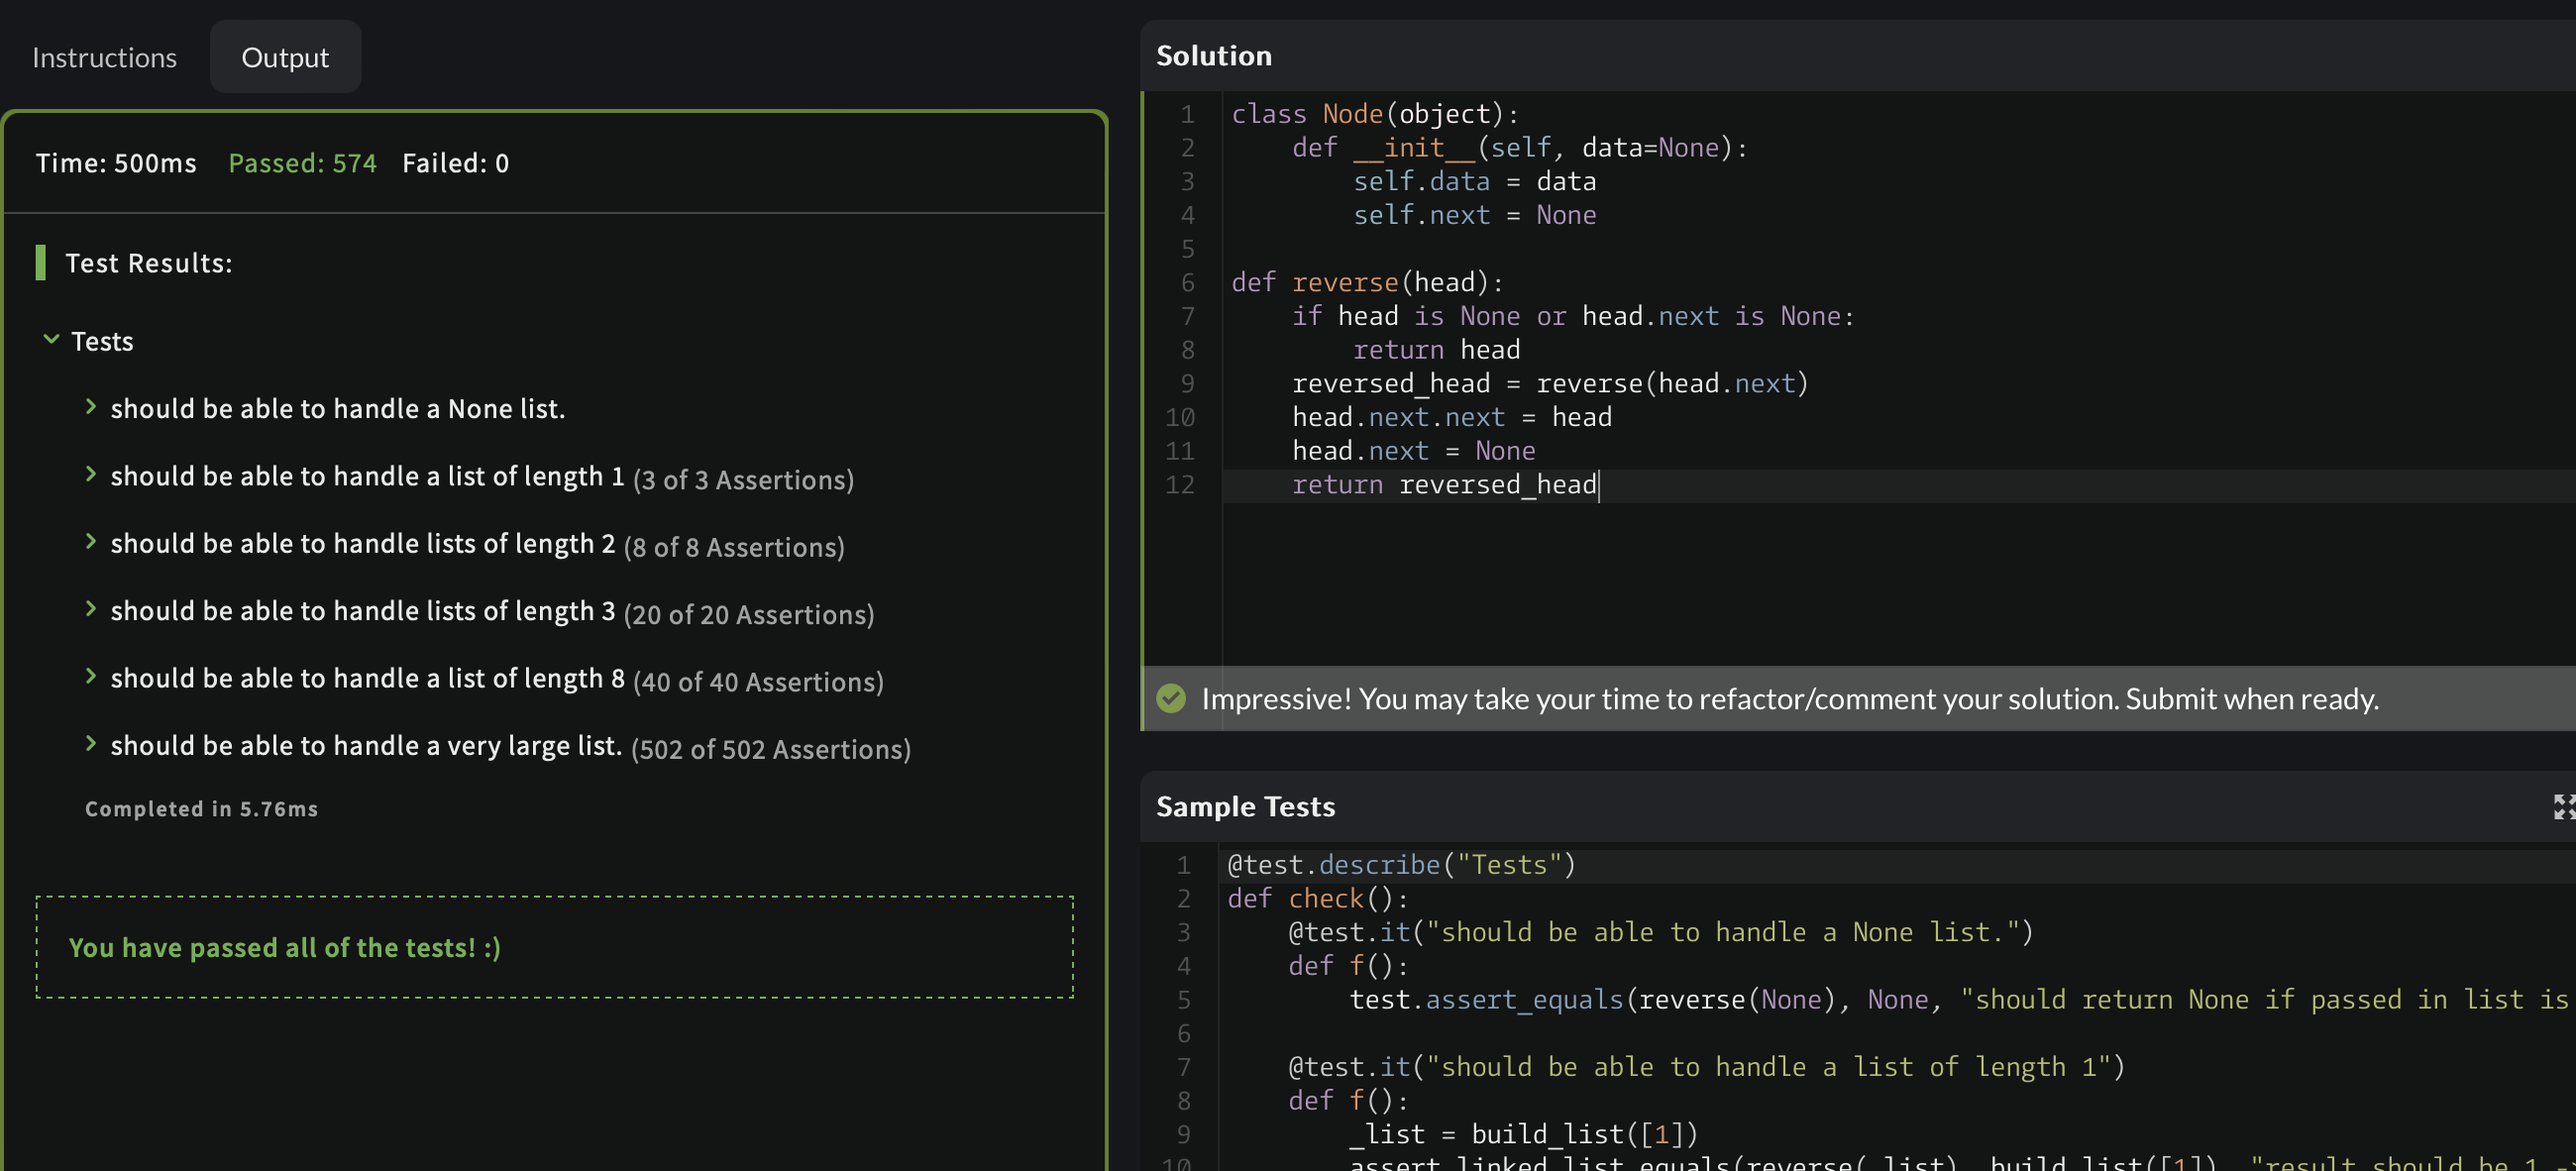
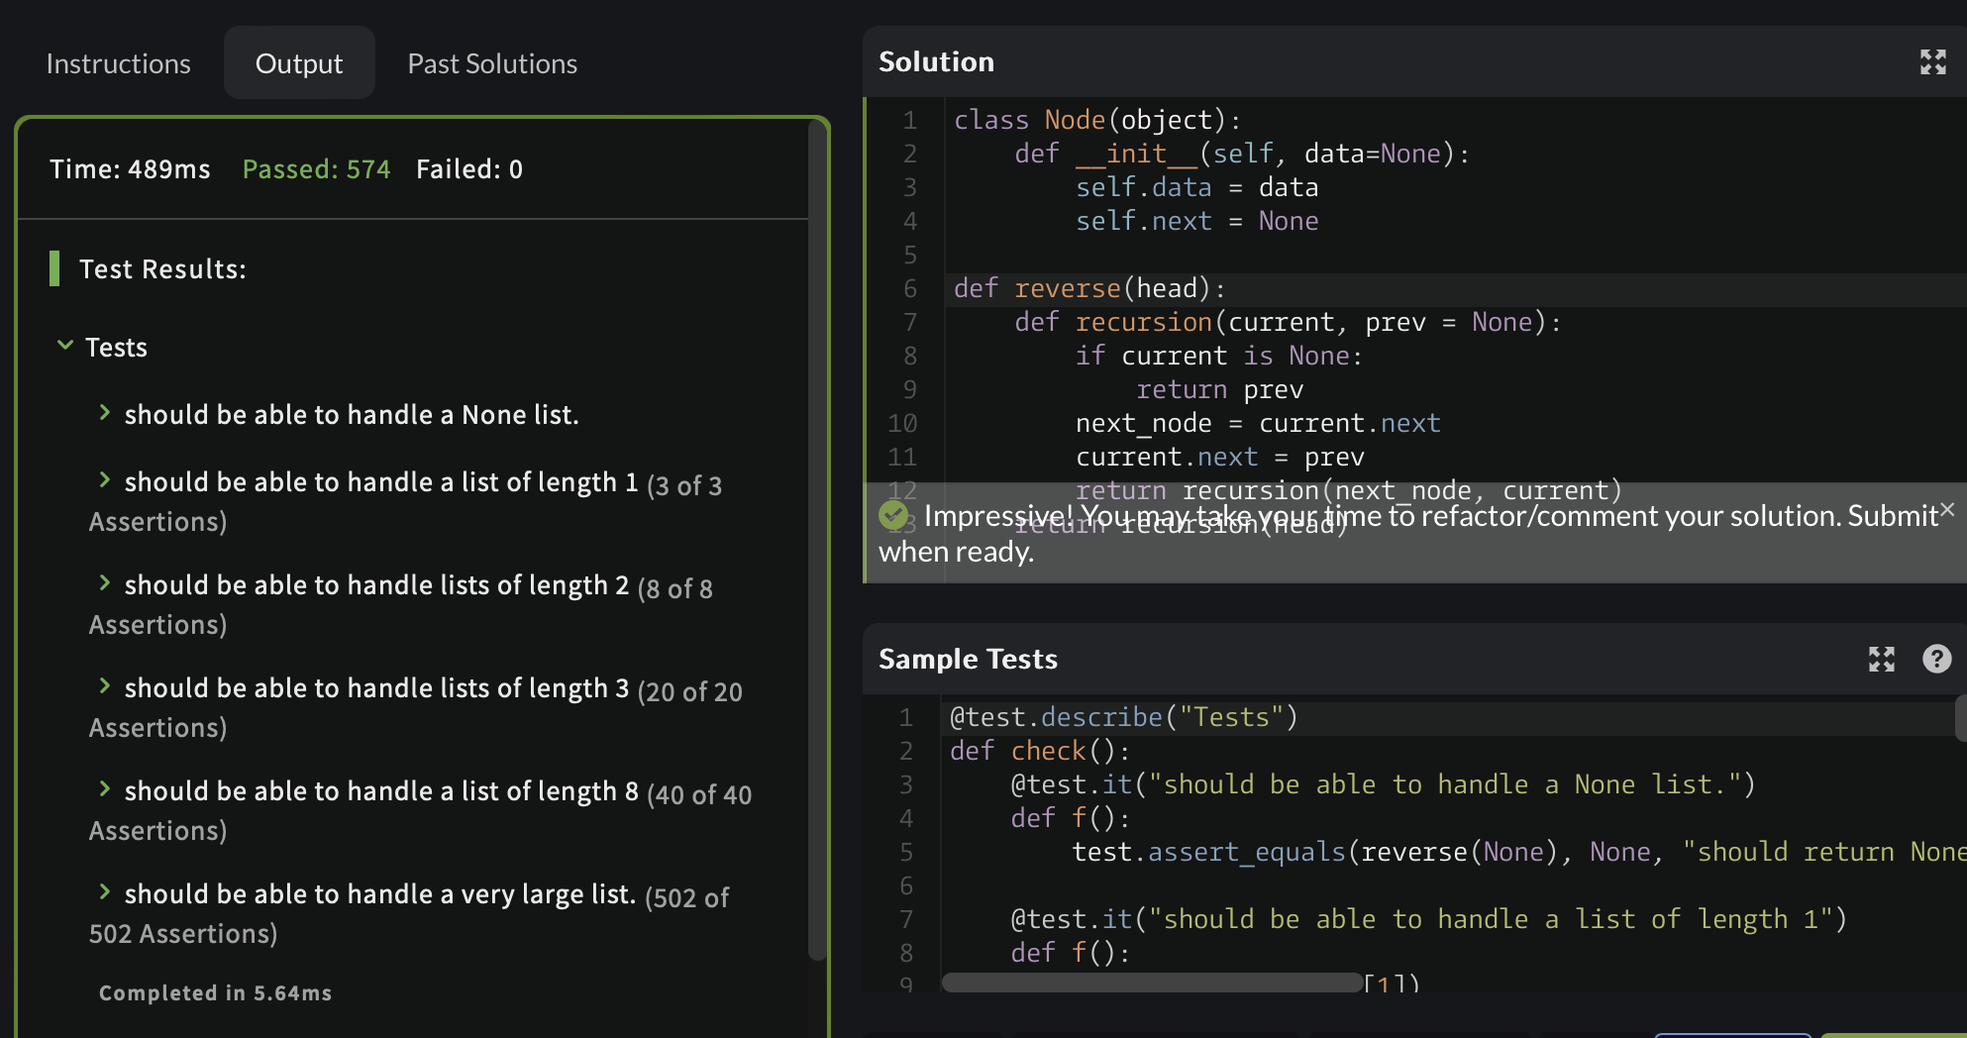
changed recursion and added task with removing duplicates

diff --git a/Linked Lists - Recursive Reverse/recursive_reverse.py b/Linked Lists - Recursive Reverse/recursive_reverse.py
@@ -8,12 +8,13 @@ class Node(object):
 
 
 def reverse(head):
-    if head is None or head.next is None:
-        return head
-    reversed_head = reverse(head.next)
-    head.next.next = head
-    head.next = None
-    return reversed_head
+    def recursion(current, prev = None):
+        if current is None:
+            return prev
+        next_node = current.next
+        current.next = prev
+        return recursion(next_node, current)
+    return recursion(head)
 
 
 node_1 = Node(2)

diff --git a/Linked Lists - Remove Duplicates/duplictes.py b/Linked Lists - Remove Duplicates/duplictes.py
@@ -1,0 +1,15 @@
+class Node(object):
+    def __init__(self, data):
+        self.data = data
+        self.next = None
+
+def remove_duplicates(head):
+    if not head:
+        return None
+    current = head
+    while current and current.next:
+        if current.data == current.next.data:
+            current.next = current.next.next
+        else:
+            current = current.next
+    return head

diff --git a/Linked Lists - Push & BuildOneTwoThree/PushBuild.py b/Linked Lists - Push & BuildOneTwoThree/PushBuild.py
@@ -1,4 +1,3 @@
-from preloaded import Node
 
 '''
 Node is defined in preloaded like this:
